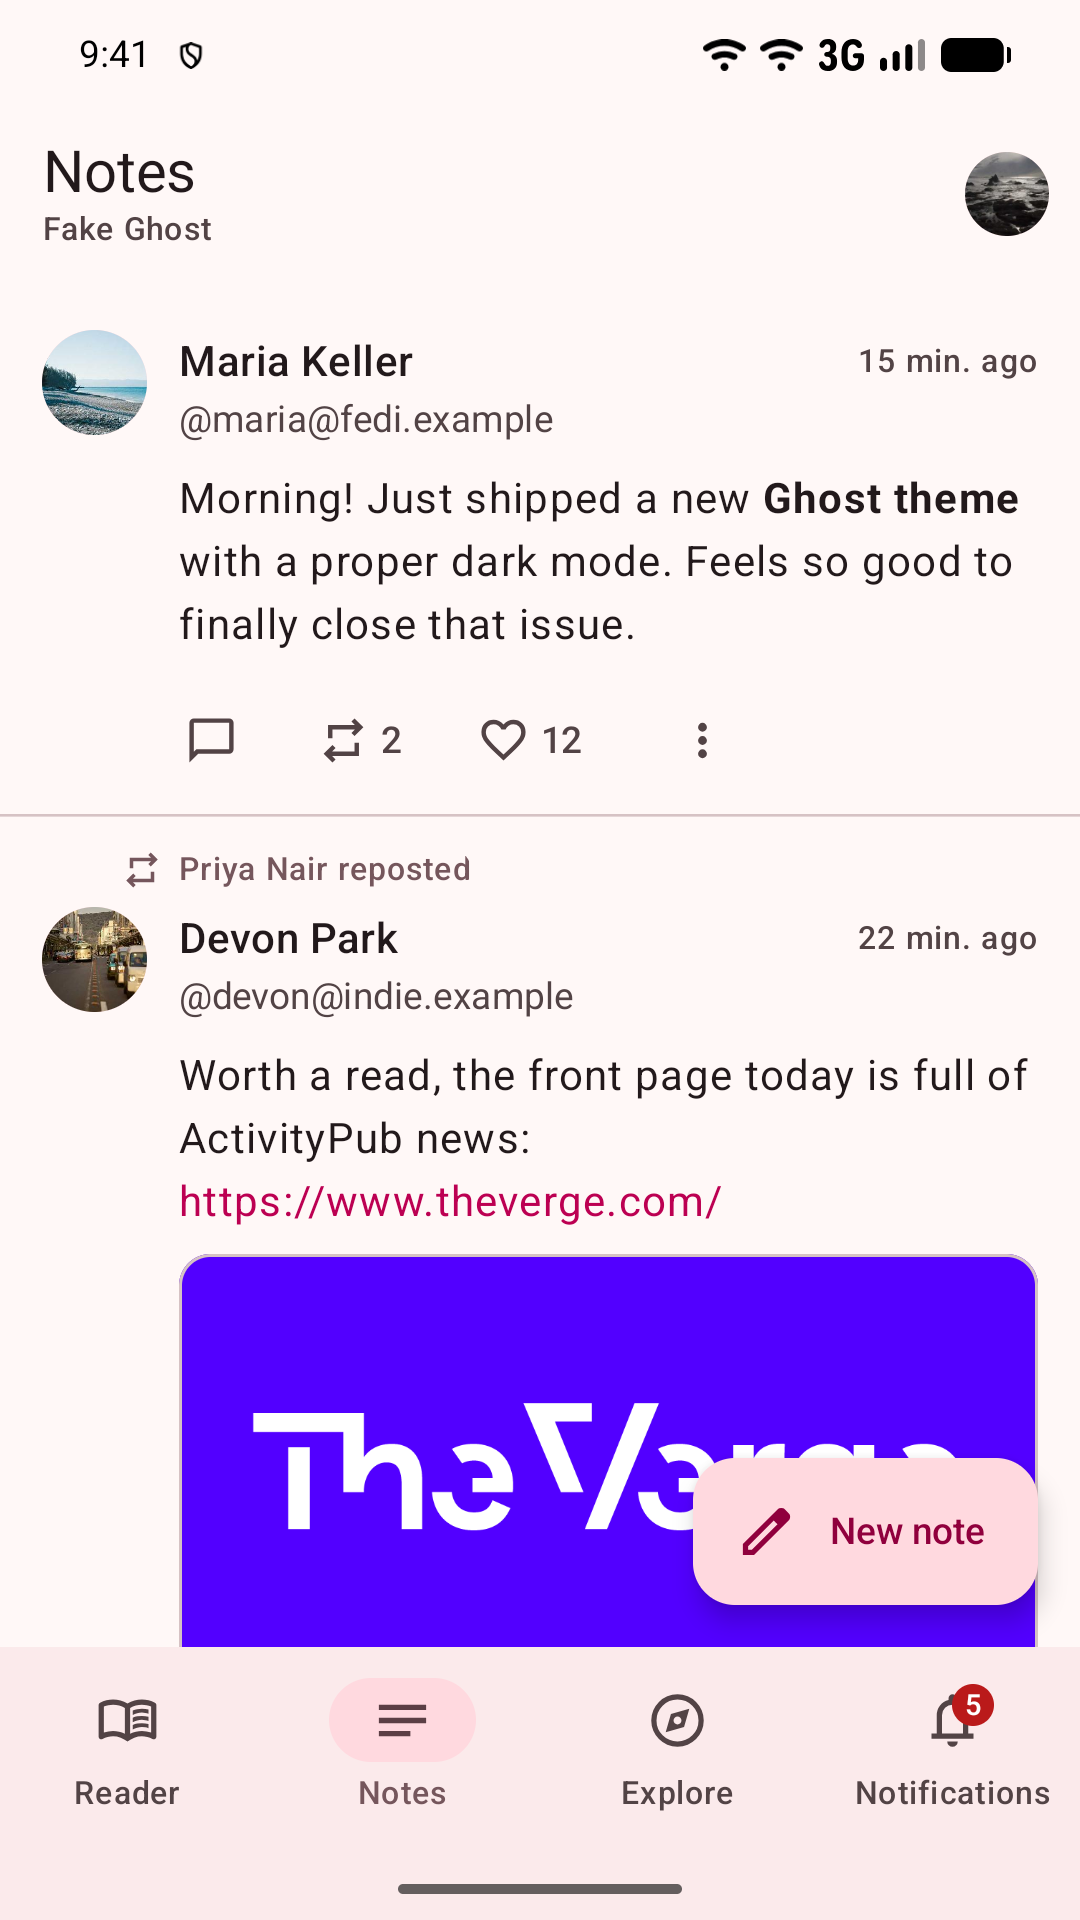
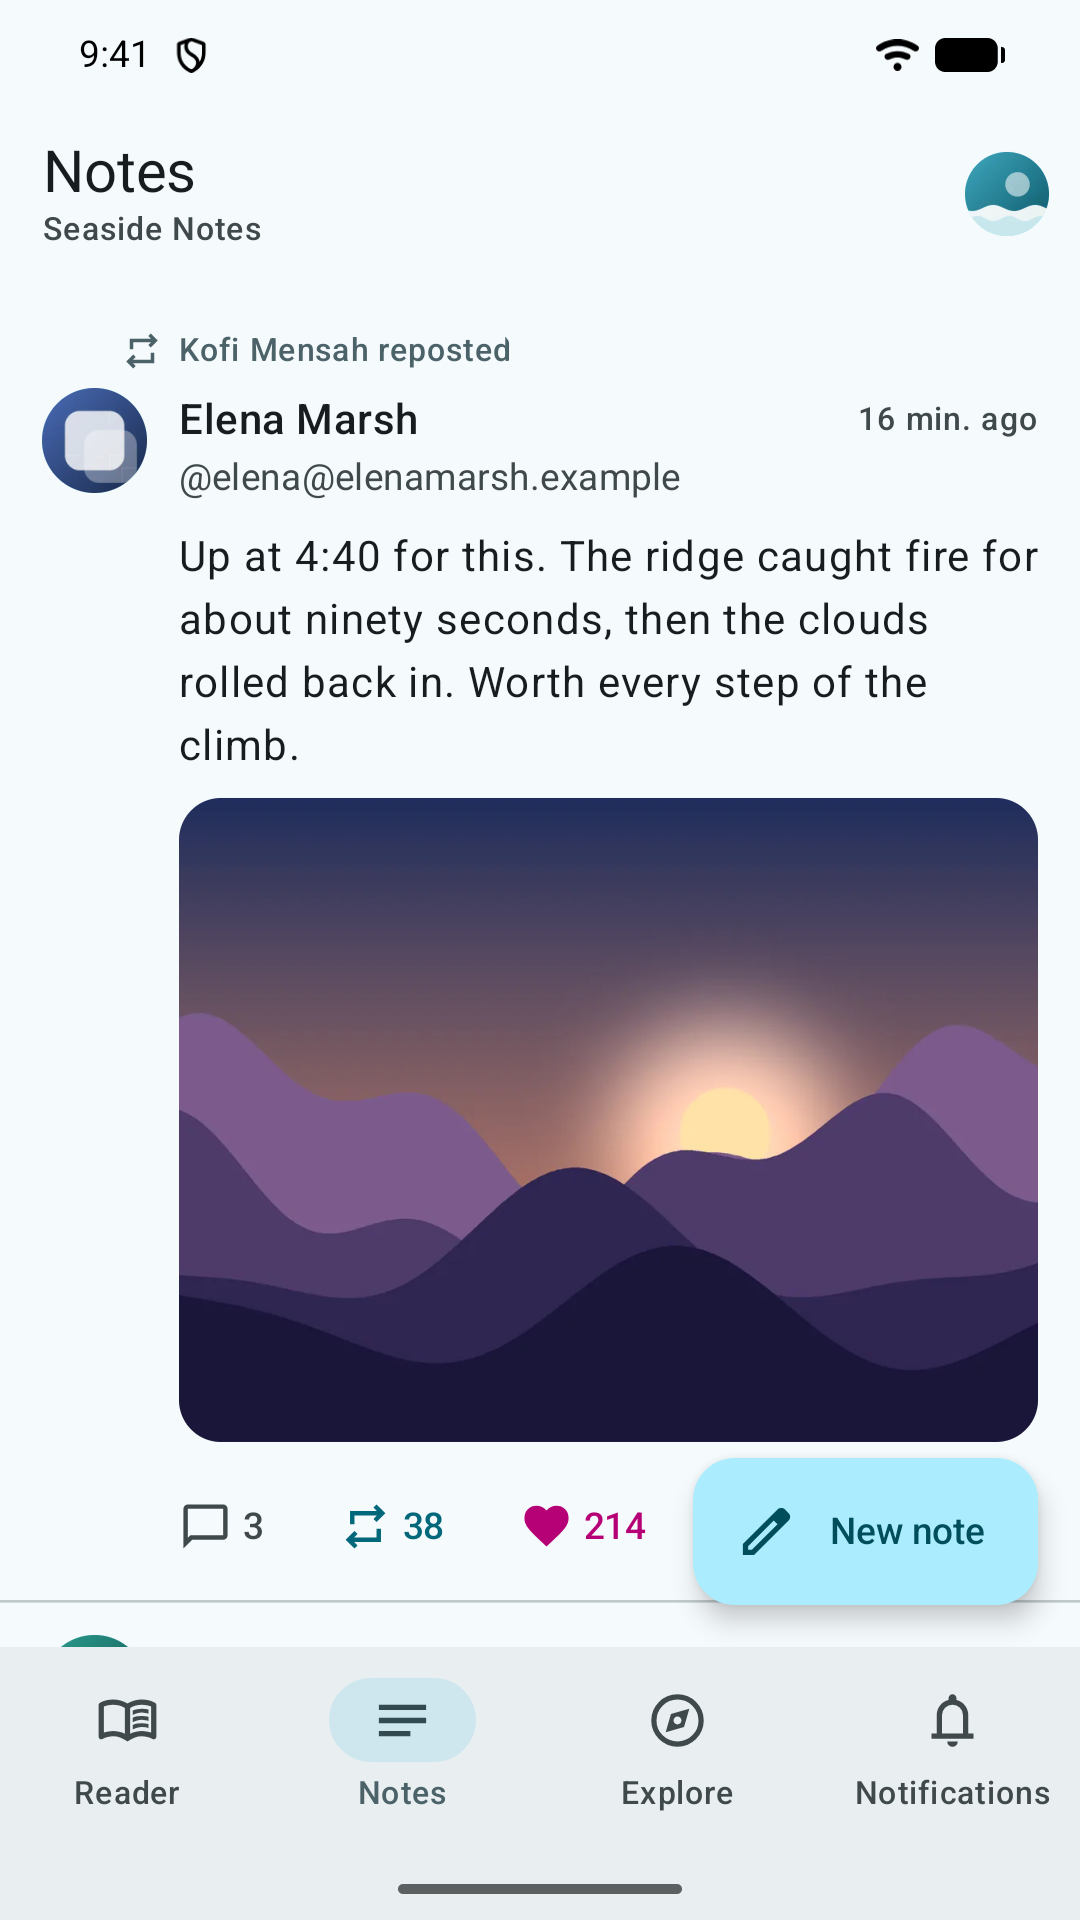
Release 1.1.0 with new store screenshots
New phone shots from demo mode: the Reader, Notes, reading settings, a
quote card, Neighbors and Notifications, with release notes in every
store language.

A handle in a popup asked for its widest size, which the split between
user and server turned into a width Constraints can't hold, and the
composer crashed on its first mention suggestion.

diff --git a/app/src/main/kotlin/co/magicpages/socialweb/ui/components/HandleText.kt b/app/src/main/kotlin/co/magicpages/socialweb/ui/components/HandleText.kt
@@ -11,6 +11,7 @@ import androidx.compose.ui.semantics.text
 import androidx.compose.ui.text.AnnotatedString
 import androidx.compose.ui.text.TextStyle
 import androidx.compose.ui.text.style.TextOverflow
+import androidx.compose.ui.unit.Constraints
 import androidx.compose.ui.unit.dp
 
 /**
@@ -40,10 +41,13 @@ fun HandleText(
         modifier = modifier.clearAndSetSemantics { text = AnnotatedString(handle) },
     ) { (userPart, serverPart), constraints ->
         val loose = constraints.copy(minWidth = 0)
+        // Unbounded (as when a popup asks for its widest size), each part takes its full width: subtracting from
+        // Infinity gives a width Constraints can't hold.
+        fun room(taken: Int) = if (constraints.hasBoundedWidth) (constraints.maxWidth - taken).coerceAtLeast(0) else Constraints.Infinity
         // The user part keeps room for a letter and its ellipsis, so the handle never reads as just a server.
         val userMin = minOf(MinUserPart.roundToPx(), userPart.maxIntrinsicWidth(constraints.maxHeight))
-        val serverPlaced = serverPart.measure(loose.copy(maxWidth = (constraints.maxWidth - userMin).coerceAtLeast(0)))
-        val userPlaced = userPart.measure(loose.copy(maxWidth = (constraints.maxWidth - serverPlaced.width).coerceAtLeast(0)))
+        val serverPlaced = serverPart.measure(loose.copy(maxWidth = room(userMin)))
+        val userPlaced = userPart.measure(loose.copy(maxWidth = room(serverPlaced.width)))
         val width = (userPlaced.width + serverPlaced.width).coerceIn(constraints.minWidth, constraints.maxWidth)
         val height = maxOf(userPlaced.height, serverPlaced.height).coerceIn(constraints.minHeight, constraints.maxHeight)
         layout(width, height) {
